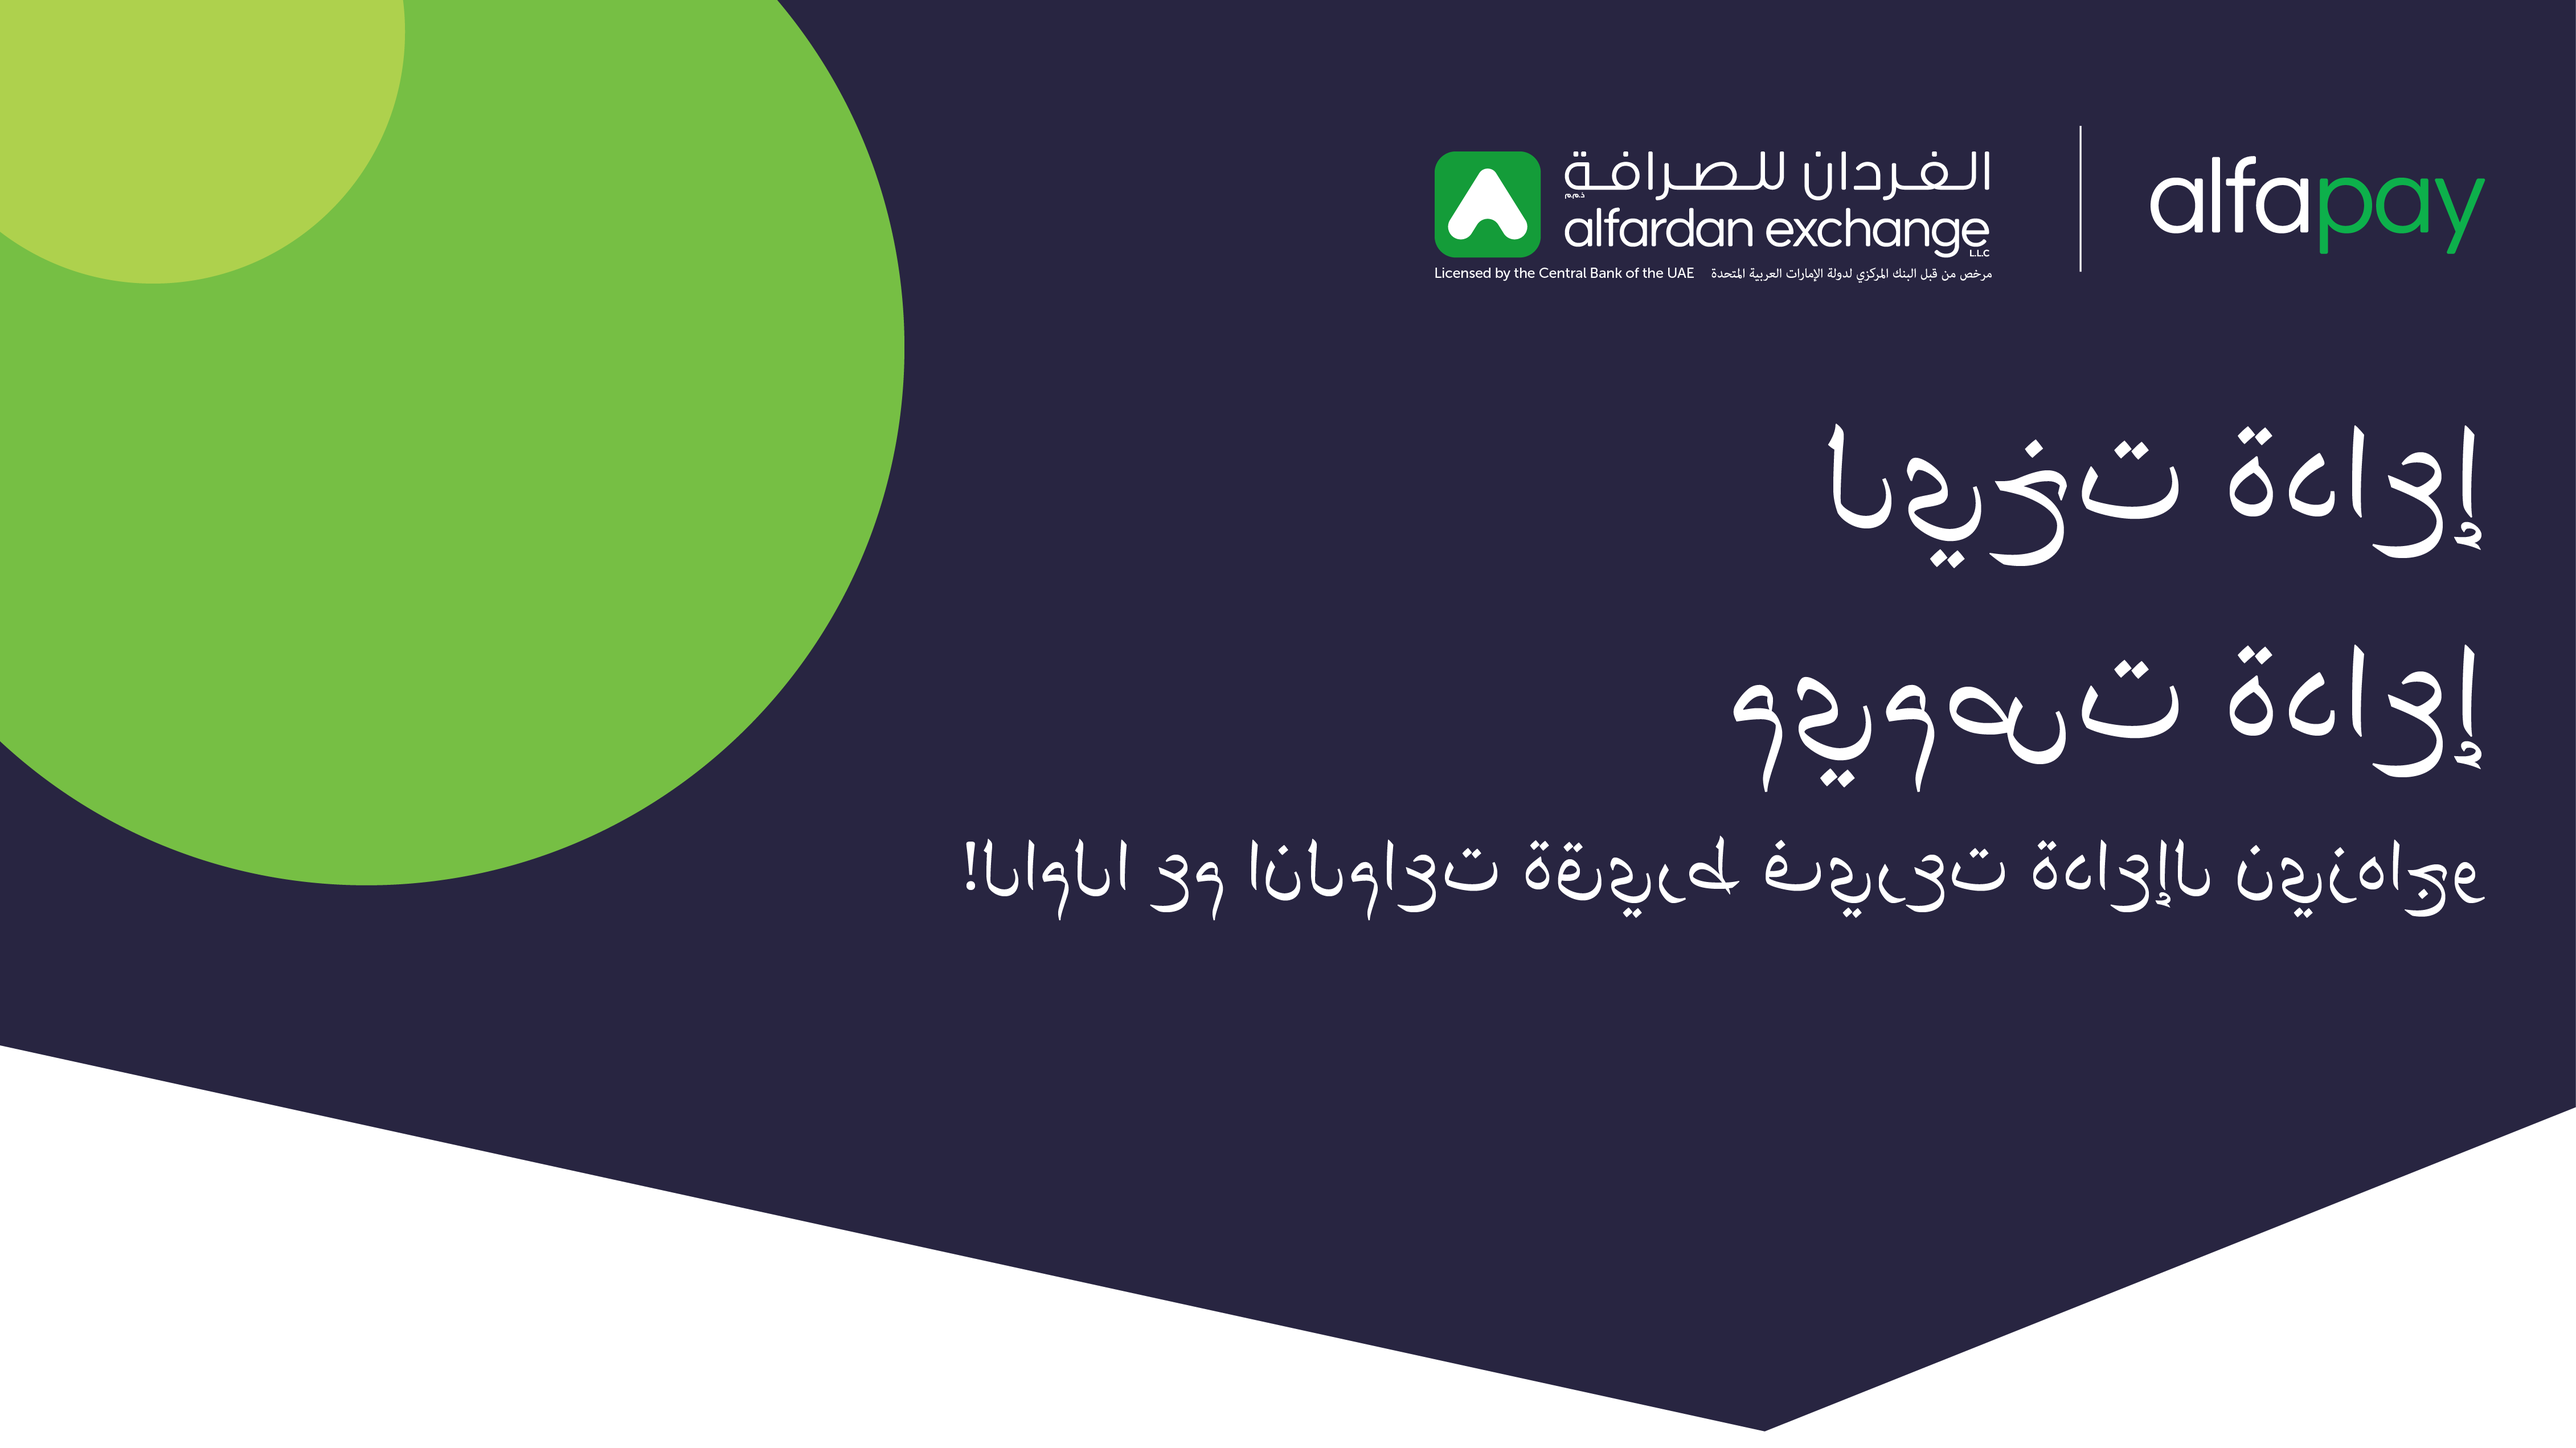
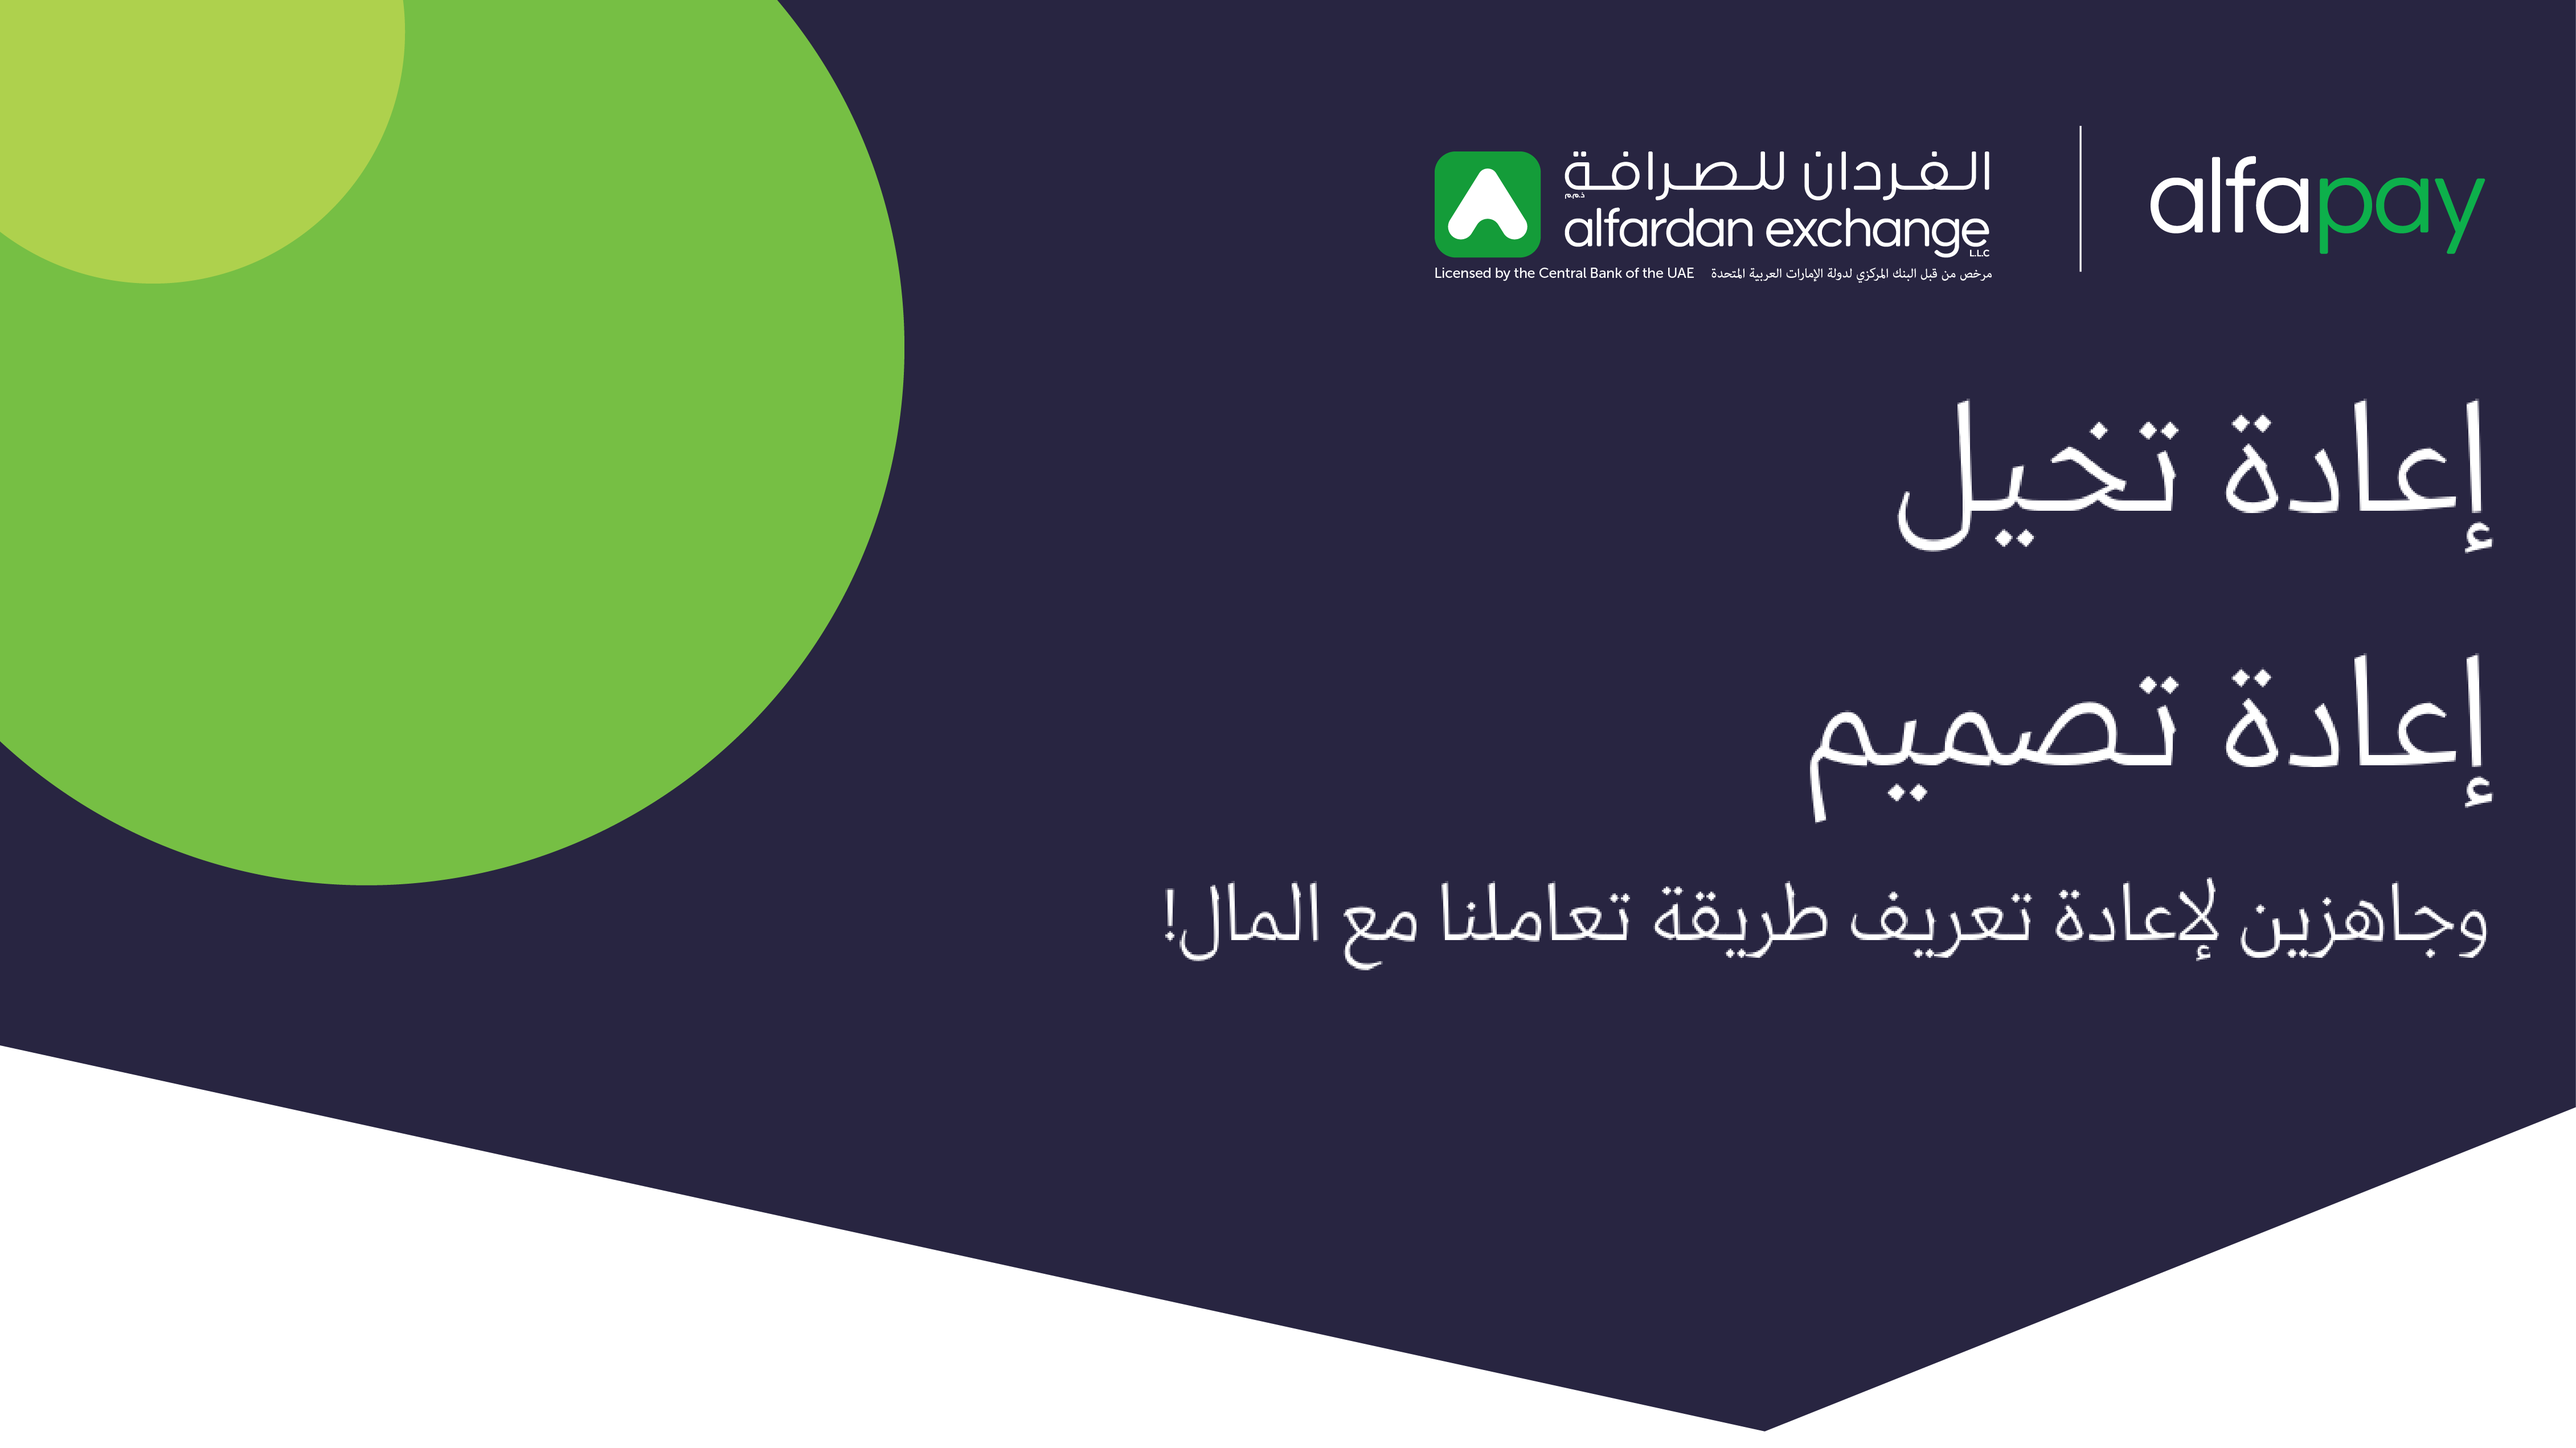
emailer3-template

Changed region(s): [[0.3741, 0.5902, 0.9664, 0.6834], [0.6858, 0.2796, 0.9664, 0.4039], [0.6547, 0.466, 0.9664, 0.5592]]

diff --git a/emailer3.html b/emailer3.html
@@ -49,56 +49,31 @@
         }
 
         .inner-padding {
-            padding: 20px;
+            padding: 0px 45px;
         }
 
         .text-center {
             text-align: center;
         }
 
-        .hero {
-            background-image: url('http://cdn.mcauto-images-production.sendgrid.net/2c198dcb94d92bdf/371def24-e48f-4143-8963-e7bd2ca07dd4/4523x2991.png');
-            background-size: cover;
-            background-position: center;
-            height: 400px;
-            text-align: left;
-            color: white;
-        }
-
-        .hero-title {
-            font-size: 3.5rem;
-            font-weight: bold;
-            padding-left: 5%;
-            padding-top: 5%;
-            color: white;
-        }
-
         .social-icons img {
             margin-right: 10px;
         }
 
-        p,
-        a {
+        p {
             color: #282541;
             font-size: 18px;
         }
 
-        @media (max-width:460px) {
-            .hero-title {
-                font-size: 2rem;
-                padding-top: 8%;
-            }
+        #arabic-table {
+            font-size: 20px;
+        }
 
-            .hero {
-                height: 200px !important;
-            }
+        @media(max-width:460px) {
 
-            /* p {
+            p,
+            a {
                 font-size: 20px;
-            } */
-
-            .customer_main {
-                font-size: 16px !important;
             }
         }
     </style>
@@ -106,37 +81,57 @@
 
 <body>
     <center class="wrapper">
+        <!-- English Template -->
         <table class="main" width="100%">
-            <!-- Hero Section with Background Image -->
+            <!-- Hero Image Section with Logos -->
             <tr>
-                <td>
-                    <a href="https://alfapay.go.link/4WRWJ">
-                        <img src="http://cdn.mcauto-images-production.sendgrid.net/b42d2e38242a84fb/95e6f618-5a1a-4dd7-a515-b27862589c69/4523x3070.png"
-                            alt="" width="100%">
-                    </a>
-                </td>
-            </tr>
-            <!-- Body Content -->
-            <tr>
-                <td class="inner-padding">
-                    <p class="text-center">Dear [User],</p>
-                    <p class="text-center">It’s almost time! We’ve been working on something truly special, and we can
-                        hardly contain our
-                        <span
-                            style="color: #76BF44; font-weight: bold;">E<sub>X</sub>C<sub>I</sub>T<sub>E</sub>M<sub>E</sub>N<sub>T</sub></span>.
-                    </p>
-                    <p class="text-center">All we’ll say for now is that it’s going to completely redefine your money
-                        remittance experience. Curious? It won't be long.</p>
-                    <p class="text-center">
-                        <span style="color: #76BF44; font-weight: bold;">Tomorrow</span>, all will be revealed—and trust
-                        us, you don’t want to miss this! Get ready to be amazed!
-                    </p>
+                <td style="padding: 0;">
+                    <table width="100%" cellspacing="0" cellpadding="0">
+                        <!-- Hero Image Row -->
+                        <tr>
+                            <td>
+                                <a href="https://alfardanexchange.com/alfapay">
+                                    <img src="http://cdn.mcauto-images-production.sendgrid.net/b42d2e38242a84fb/946f53c6-55bd-424b-bcea-bb740cebcc0d/4500x1793.png"
+                                        alt="Hero" width="600">
+                                </a>
+                            </td>
+                        </tr>
+                    </table>
                 </td>
             </tr>
 
-            <!-- Footer Section -->
+
+            <!-- Intro Text -->
             <tr>
-                <td class="inner-padding text-center">
+                <td class="inner-padding">
+                    <!-- <p class="">Dear [User],</p> -->
+                    <p class="">We would like to inform you of a recent update to the AlfaPay service fee
+                        structure. As part of our commitment to providing exceptional service and
+                        improving our offerings, we have made adjustments to the transaction fees,
+                        effective from [Effective Date].</p>
+                    <!-- <p class="" style="font-size: 2rem; color: #282541; font-weight: bold;line-height: 0px;">What’s New?
+                    </p> -->
+                    <p class="">Please rest assured that these changes are aimed at maintaining our
+                        high-quality services and ensuring a seamless experience for all our users.</p>
+                    <p class="">For a detailed breakdown of the new fee structure, please refer to the
+                        [link or attachment] or visit AlfaPay app.</p>
+                    <p class="">If you have any questions or need further assistance, feel free to contact
+                        our support team at [support email/number].</p>
+                </td>
+            </tr>
+
+            <!-- Closing Message -->
+            <tr>
+                <td>
+                    <h1 style="color: #13A538 ; font-size: 35px;padding-left: 45px;">Thank you for your continued
+                        trust and support.
+                    </h1>
+                </td>
+            </tr>
+
+            <!-- Regards Section -->
+            <tr>
+                <td class="" style="padding: 0px 45px;">
                     <p style="color: rgb(96, 93, 93);">Best Regards,<br>The AlfaPay Team</p>
                 </td>
             </tr>
@@ -165,11 +160,11 @@
                 <td align="center" style="padding: 10px 0;">
                     <table align="center">
                         <tr>
-                            <td><a href="https://alfapay.go.link/4WRWJ" target="_blank"><img
+                            <td><a href="https://alfapay.go.link/abxPE" target="_blank"><img
                                         src="http://cdn.mcauto-images-production.sendgrid.net/b42d2e38242a84fb/0a4c9e3b-f6a0-4e70-a0b2-a2d52dabfe74/671x238.png"
                                         alt="Apple Store" width="130"></a></td>
                             <td style="width: 20px;">&nbsp;</td>
-                            <td><a href="https://alfapay.go.link/63YAB"><img
+                            <td><a href="https://alfapay.go.link/9HpNL"><img
                                         src="http://cdn.mcauto-images-production.sendgrid.net/b42d2e38242a84fb/3df01f54-bd26-4779-865a-7ef001e17f84/671x231.png"
                                         alt="Google Play" width="130"></a></td>
                         </tr>
@@ -195,10 +190,6 @@
                             <td style="padding-top: 20px;"><img
                                     src="http://cdn.mcauto-images-production.sendgrid.net/b42d2e38242a84fb/02e202e9-eaa4-4707-a5f2-fd92558b971d/129x90.png"
                                     alt="Email" width="20"></td>
-                            <!-- <td style="padding-left: 10px; color: rgb(96, 93, 93);">
-                                <p style="display: inline-block;" class="customer_main">
-                                    customercare@alfardanexchange.com</p>
-                            </td> -->
                             <td style=" color: rgb(96, 93, 93);padding-left: 10px; padding-top: 20px;">
                                 <a style="display: inline-block;text-decoration: none;color: #282541;"
                                     href="mailto:help@alfapay.com">help@alfapay.com</a>
